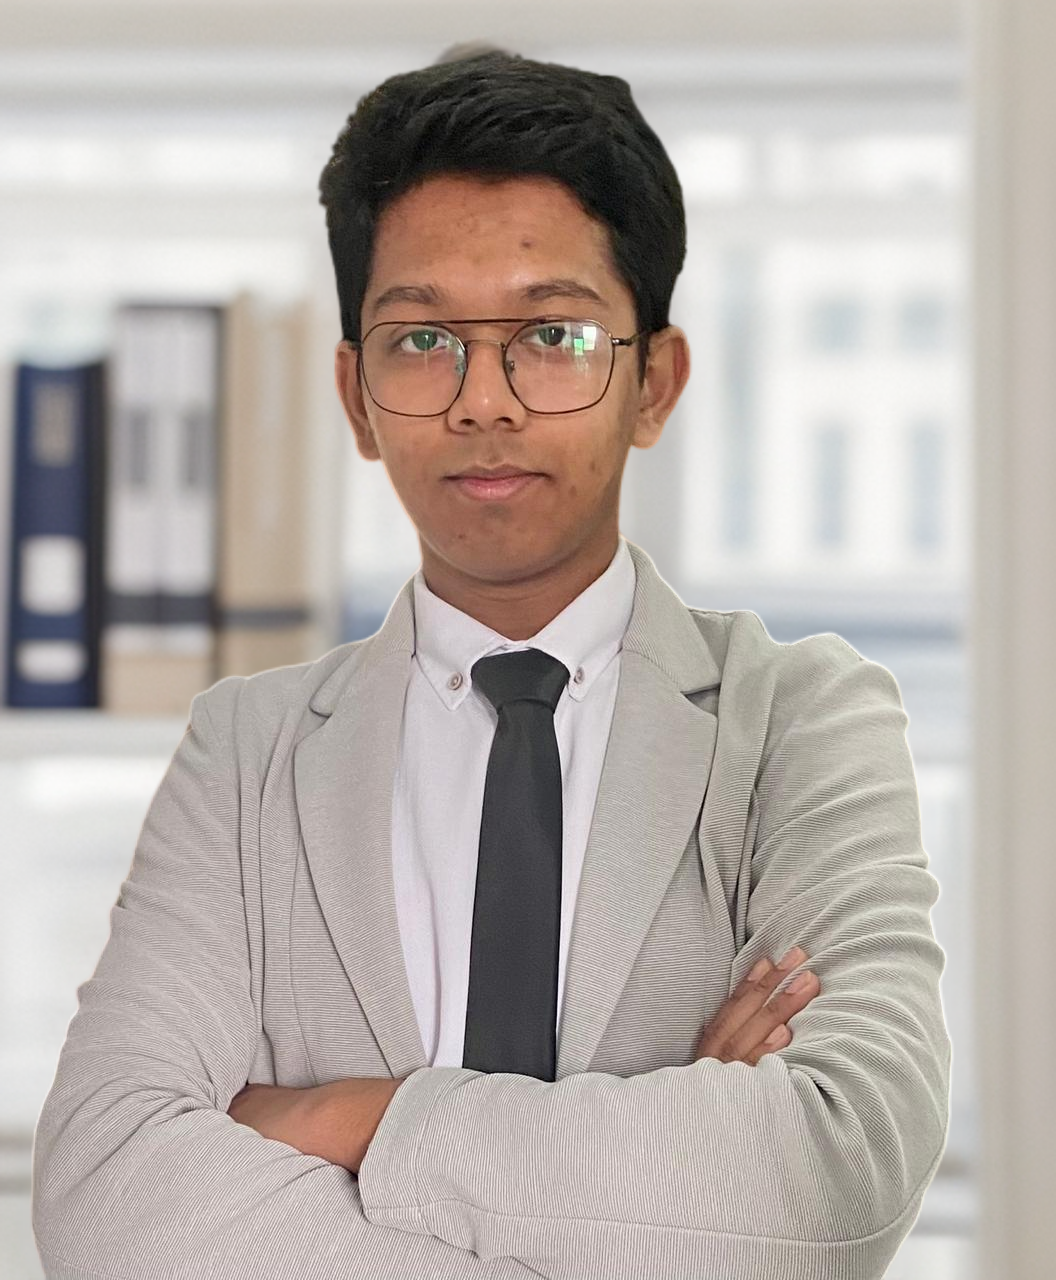
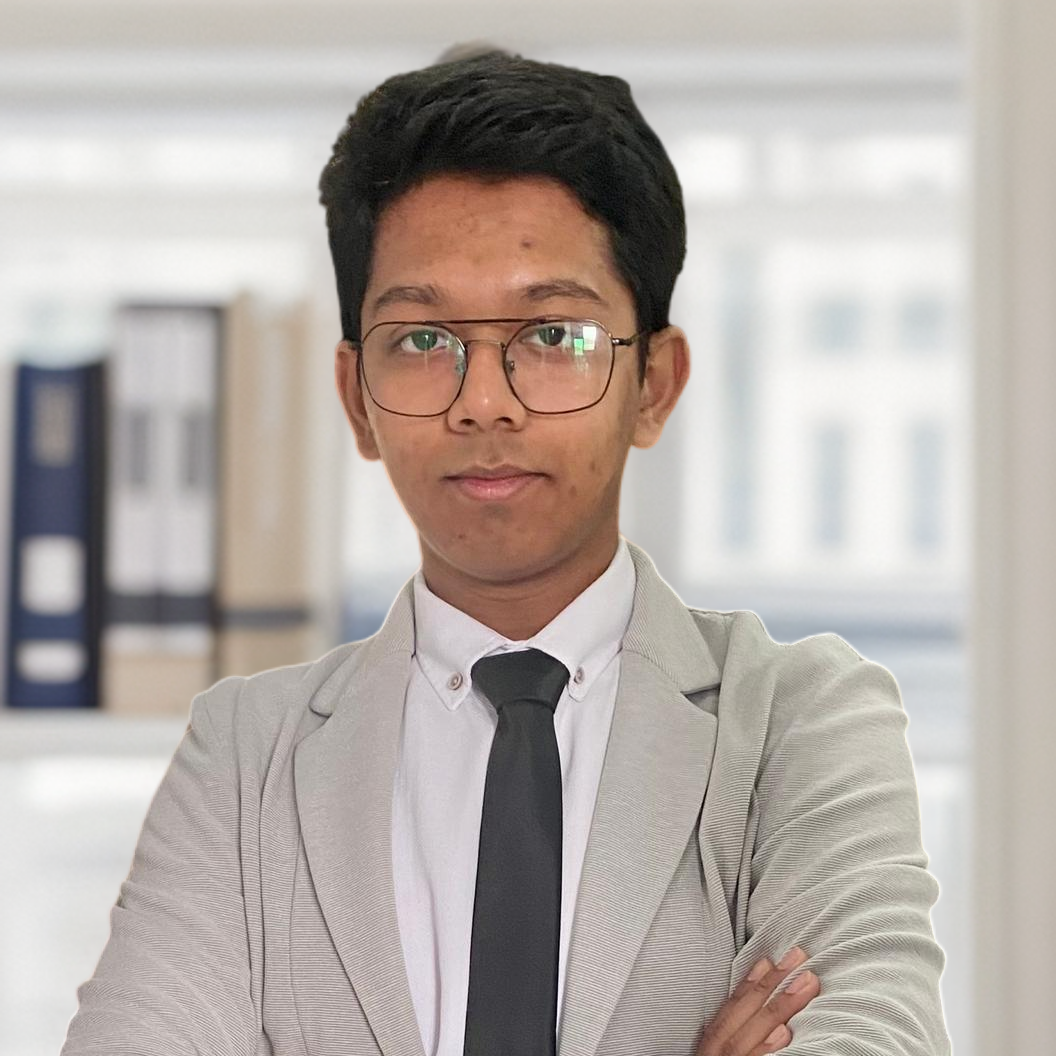
style updates

diff --git a/index.html b/index.html
@@ -7,6 +7,11 @@
     <link rel="stylesheet" href="styles.css" />
   </head>
   <body>
+    <header>
+      <h1>
+        <span>sayhan1610</span>
+      </h1>
+    </header>
     <nav>
       <a href="#about">About</a>
       <a href="#experience">Experience</a>
@@ -16,154 +21,143 @@
       <a href="#contact">Contact</a>
     </nav>
     <div class="container">
-      <div id="about" class="section">
+      <div id="about" class="section about-section">
+        <div class="section-title">About Me</div>
         <div class="card">
-          <div class="section-title">About Me</div>
-          <img
-            src="https://media.tenor.com/NWjN0xPsZfIAAAAM/the-ozone-layer-protects-humans-and-humans-destroying-the-ozone-layer-cricket-meme.gif"
-            alt="Image of Sayhan Rahman"
-            class="round-image"
-          />
-          <p>
-            Top-performing IB student with outstanding Cambridge IGCSE grades.
-            Over 2 years of hands-on experience in Python and HTML projects,
-            demonstrating a strong aptitude for problem-solving and programming.
-            Eager to apply my skills and contribute effectively in IT industries
-            around.
-          </p>
+          <img src="/static/sayhan_rahman.png" alt="Image of Sayhan Rahman" />
+          <div class="card__content">
+            <p class="card__title">Sayhan Rahman</p>
+            <p class="card__description">
+              Top-performing IB student with outstanding Cambridge IGCSE grades.
+              Over 2 years of hands-on experience in Python and HTML projects,
+              demonstrating a strong aptitude for problem-solving and
+              programming. Eager to apply my skills and contribute effectively
+              in IT industries around.
+            </p>
+          </div>
         </div>
       </div>
       <div id="experience" class="section">
+        <div class="section-title">Experience</div>
         <div class="card">
-          <div class="section-title">Experience</div>
-          <div class="experience-item">
-            <h3>Ultranova Records (2020 - 2021)</h3>
-            <p>
-              Worked as an event organizer and later as an administrator for a
-              community of artists and musicians of professional level.
-            </p>
-          </div>
-          <div class="experience-item">
-            <h3>Galaxy’s Edge (2021 - Present Day)</h3>
-            <p>
-              Served as the moderator and organizer in a community of people
-              from various ethnic backgrounds. Worked actively on automating
-              processes and building bots dedicated to the server.
-            </p>
-          </div>
-          <div class="experience-item">
-            <h3>Gökkuşağı Stem Robotics & Lego Club (2022 - 2023)</h3>
-            <p>
-              Worked as the leader of a stem robotics and Lego club encouraging
-              peers to join in and bring out their creative minds.
-            </p>
-          </div>
-          <div class="experience-item">
-            <h3>Yıldız Teknik Üniversitesi Model United Nations (2024)</h3>
-            <p>
-              Represented as the delegate of Colombia for H-WHO committee in
-              YTUMUN and received an outstanding Honorable Delegate award.
-            </p>
-          </div>
-          <div class="experience-item">
-            <h3>Youth Volunteer at Istanbul&I (2023 - Present Day)</h3>
-            <p>
-              Worked as a resilient volunteer at Istanbul&I on a weekly basis.
-            </p>
-          </div>
-          <div class="experience-item">
-            <h3>IT Officer at Istanbul&I (2024 - Present Day)</h3>
-            <p>
-              Worked as the Junior IT Officer for Istanbul&I managing the data
-              sheets and volunteer tracking systems with the guidance of the
-              Coordinator.
-            </p>
-          </div>
+          <h3>Ultranova Records (2020 - 2021)</h3>
+          <p>
+            Worked as an event organizer and later as an administrator for a
+            community of artists and musicians of professional level.
+          </p>
+        </div>
+        <div class="card">
+          <h3>Galaxy’s Edge (2021 - Present Day)</h3>
+          <p>
+            Served as the moderator and organizer in a community of people from
+            various ethnic backgrounds. Worked actively on automating processes
+            and building bots dedicated to the server.
+          </p>
+        </div>
+        <div class="card">
+          <h3>Gökkuşağı Stem Robotics & Lego Club (2022 - 2023)</h3>
+          <p>
+            Worked as the leader of a stem robotics and Lego club encouraging
+            peers to join in and bring out their creative minds.
+          </p>
+        </div>
+        <div class="card">
+          <h3>Yıldız Teknik Üniversitesi Model United Nations (2024)</h3>
+          <p>
+            Represented as the delegate of Colombia for H-WHO committee in
+            YTUMUN and received an outstanding Honorable Delegate award.
+          </p>
+        </div>
+        <div class="card">
+          <h3>Youth Volunteer at Istanbul&I (2023 - Present Day)</h3>
+          <p>
+            Worked as a resilient volunteer at Istanbul&I on a weekly basis.
+          </p>
+        </div>
+        <div class="card">
+          <h3>IT Officer at Istanbul&I (2024 - Present Day)</h3>
+          <p>
+            Worked as the Junior IT Officer for Istanbul&I managing the data
+            sheets and volunteer tracking systems with the guidance of the
+            Coordinator.
+          </p>
         </div>
       </div>
       <div id="education" class="section">
+        <div class="section-title">Education</div>
         <div class="card">
-          <div class="section-title">Education</div>
-          <div class="education-item">
-            <h3>
-              Cambridge International General Certificate of Secondary Education
-              (2021-2023)
-            </h3>
-            <p>Gökkuşağı Eğitim Kurumları</p>
-          </div>
-          <div class="education-item">
-            <h3>International Baccalaureate (Junior Year) (2023-2024)</h3>
-            <p>Gökkuşağı Eğitim Kurumları (IB)</p>
-          </div>
+          <h3>
+            Cambridge International General Certificate of Secondary Education
+            (2021-2023)
+          </h3>
+          <p>Gökkuşağı Eğitim Kurumları</p>
+        </div>
+        <div class="card">
+          <h3>International Baccalaureate (Junior Year) (2023-2024)</h3>
+          <p>Gökkuşağı Eğitim Kurumları (IB)</p>
         </div>
       </div>
       <div id="skills" class="section">
-        <div class="card">
-          <div class="section-title">Skills</div>
-          <ul>
-            <li>Software & Design: 85%</li>
-            <li>Communication: 75%</li>
-            <li>Project Management: 80%</li>
-          </ul>
-          <h3>Technical Proficiency</h3>
-          <ul>
-            <li>Linux</li>
-            <li>Problem Solving</li>
-            <li>CSS</li>
-            <li>HTML</li>
-            <li>Python</li>
-            <li>Microsoft Excel</li>
-          </ul>
-          <h3>Documents</h3>
-          <ul>
-            <li>Microsoft Office</li>
-            <li>Google Docs</li>
-          </ul>
-          <h3>Graphic Design</h3>
-          <ul>
-            <li>Adobe Illustrator</li>
-            <li>Blender</li>
-            <li>Canva</li>
-            <li>Stable Diffusion</li>
-            <li>DALL-E</li>
-          </ul>
-          <h3>Discord & Discord API</h3>
-        </div>
+        <div class="section-title">Skills</div>
+        <ul>
+          <li>Software & Design: 85%</li>
+          <li>Communication: 75%</li>
+          <li>Project Management: 80%</li>
+        </ul>
+        <h3>Technical Proficiency</h3>
+        <ul>
+          <li>Linux</li>
+          <li>Problem Solving</li>
+          <li>CSS</li>
+          <li>HTML</li>
+          <li>Python</li>
+          <li>Microsoft Excel</li>
+        </ul>
+        <h3>Documents</h3>
+        <ul>
+          <li>Microsoft Office</li>
+          <li>Google Docs</li>
+        </ul>
+        <h3>Graphic Design</h3>
+        <ul>
+          <li>Adobe Illustrator</li>
+          <li>Blender</li>
+          <li>Canva</li>
+          <li>Stable Diffusion</li>
+          <li>DALL-E</li>
+        </ul>
+        <h3>Discord & Discord API</h3>
       </div>
       <div id="languages" class="section">
-        <div class="card">
-          <div class="section-title">Languages</div>
-          <ul>
-            <li>English: Advanced</li>
-            <li>Bengali: Intermediate</li>
-            <li>Spanish: Basic</li>
-          </ul>
-        </div>
+        <div class="section-title">Languages</div>
+        <ul>
+          <li>English: Advanced</li>
+          <li>Bengali: Intermediate</li>
+          <li>Spanish: Basic</li>
+        </ul>
       </div>
-      <div id="contact" class="section">
-        <div class="card contact-info">
-          <div class="section-title">Contact</div>
-          <p>
-            Email:
-            <a href="mailto:sayhanrahman@gokkusagi.k12.tr"
-              >sayhanrahman@gokkusagi.k12.tr</a
-            >
-          </p>
-          <p>Phone: +90 551 599 00 55</p>
-          <div class="social-icons">
-            <a href="https://www.instagram.com/alexx_sh16/"
-              ><img src="/static/icons/instagram.png" alt="Instagram"
-            /></a>
-            <a href="https://discord.gg/VpvYKbasZN"
-              ><img src="/static/icons/discord.png" alt="Discord"
-            /></a>
-            <a href="https://www.linkedin.com/in/sayhan-rahman-08a1a62a3/"
-              ><img src="/static/icons/linkedin.png" alt="LinkedIn"
-            /></a>
-            <a href="https://t.me/sayhan1610"
-              ><img src="/static/icons/telegram.png" alt="Telegram"
-            /></a>
-          </div>
+      <div id="contact" class="section contact-info">
+        <div class="section-title">Contact</div>
+        <p>
+          Email:
+          <a href="mailto:sayhanrahman@gokkusagi.k12.tr"
+            >sayhanrahman@gokkusagi.k12.tr</a
+          >
+        </p>
+        <p>Phone: +90 551 599 00 55</p>
+        <div class="social-icons">
+          <a href="https://www.instagram.com/alexx_sh16/"
+            ><img src="/static/icons/instagram.png" alt="Instagram"
+          /></a>
+          <a href="https://discord.gg/VpvYKbasZN"
+            ><img src="/static/icons/discord.png" alt="Discord"
+          /></a>
+          <a href="https://www.linkedin.com/in/sayhan-rahman-08a1a62a3/"
+            ><img src="/static/icons/linkedin.png" alt="LinkedIn"
+          /></a>
+          <a href="https://t.me/sayhan1610"
+            ><img src="/static/icons/telegram.png" alt="Telegram"
+          /></a>
         </div>
       </div>
     </div>

diff --git a/styles.css b/styles.css
@@ -14,7 +14,7 @@ body {
 }
 
 header {
-  background-color: #0aadc6;
+  background-color: #000;
   color: #ffffff;
   padding: 10px 0;
   text-align: center;
@@ -101,11 +101,82 @@ h3 {
   transform: translateY(-3px);
 }
 
-/* Rounded image */
-img {
-  max-width: 100%;
-  height: auto;
-  border-radius: 50%;
+/* Card-like sections */
+.card {
+  background-color: #1c1c1c;
+  border-radius: 10px;
+  padding: 15px;
+  margin-bottom: 15px;
+  transition: transform 0.3s ease, box-shadow 0.3s ease;
+}
+
+.card:hover {
+  transform: translateY(-5px);
+  box-shadow: 0 5px 15px rgba(0, 0, 0, 0.3);
+}
+
+/* About Me Card Specific Styles */
+.about-section .card {
+  position: relative;
+  width: 100%;
+  height: 300px;
+  background: linear-gradient(-45deg, #1cb85e 0%, #0aadc6 50%, #1cb85e 100%);
+  border-radius: 10px;
+  display: flex;
+  align-items: center;
+  justify-content: center;
+  overflow: hidden;
+  transition: all 0.6s cubic-bezier(0.23, 1, 0.32, 1);
+}
+
+.about-section .card img {
+  width: auto;
+  height: 100%;
+  border-radius: 20%;
+  transition: all 0.6s cubic-bezier(0.23, 1, 0.32, 1);
+}
+
+.about-section .card:hover {
+  transform: rotate(-5deg) scale(1.1);
+  box-shadow: 0 10px 20px rgba(0, 0, 0, 0.2);
+}
+
+.about-section .card__content {
+  position: absolute;
+  top: 50%;
+  left: 50%;
+  transform: translate(-50%, -50%) rotate(-45deg);
+  width: 100%;
+  height: 100%;
+  padding: 20px;
+  box-sizing: border-box;
+  background-color: #ffffff;
+  opacity: 0;
+  transition: all 0.6s cubic-bezier(0.23, 1, 0.32, 1);
+}
+
+.about-section .card:hover .card__content {
+  transform: translate(-50%, -50%) rotate(0deg);
+  opacity: 1;
+}
+
+.about-section .card__title {
+  margin: 0;
+  font-size: 30px;
+  color: #333333;
+  font-weight: 700;
+}
+
+.about-section .card__description {
+  margin: 10px 0 0;
+  font-size: 25px;
+  color: #777777;
+  line-height: 1.4;
+}
+
+.about-section .card:hover img {
+  scale: 0;
+  transform: rotate(-45deg);
 }
 
 /* Smooth scrolling */
